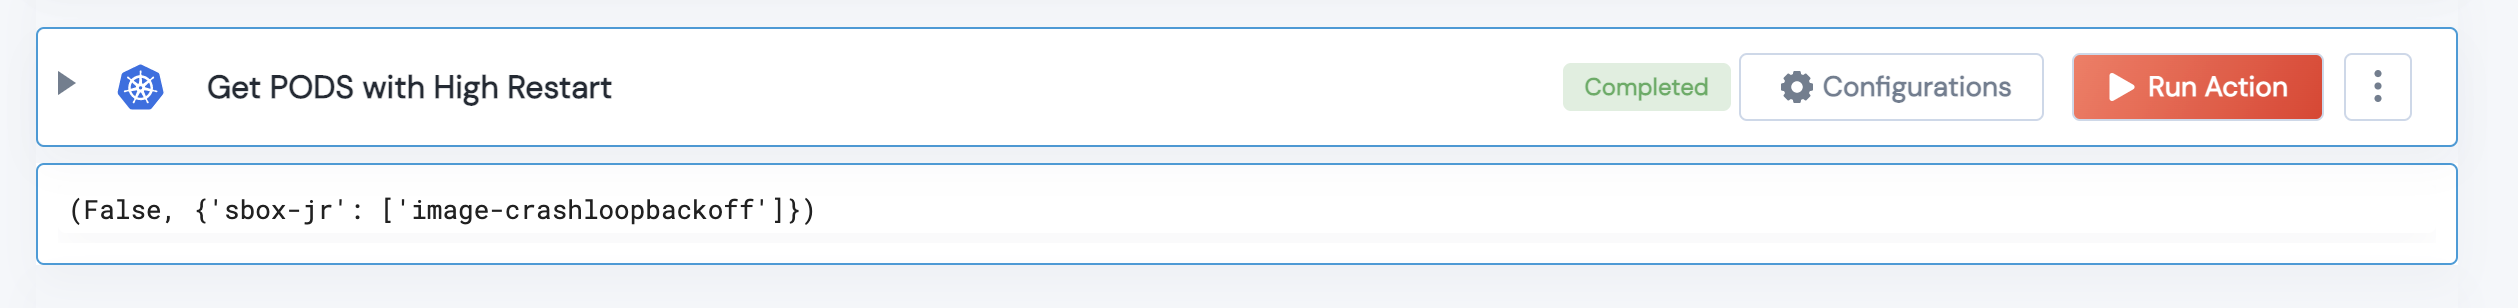
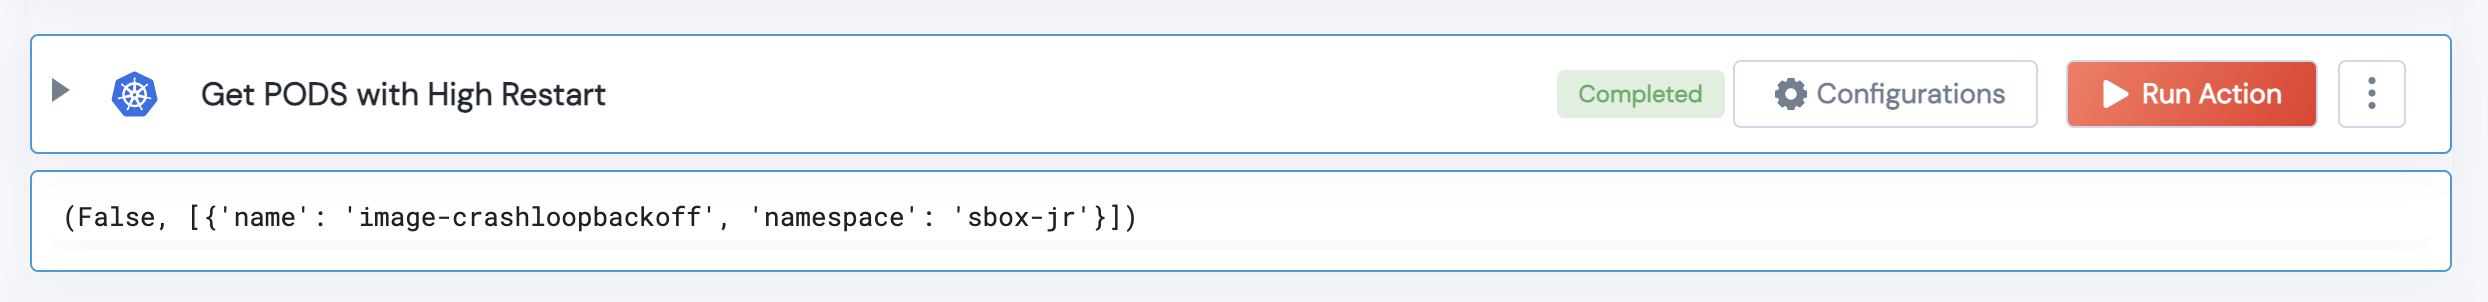
PR Comments

diff --git a/Kubernetes/legos/k8s_get_pods_with_high_restart/k8s_get_pods_with_high_restart.py b/Kubernetes/legos/k8s_get_pods_with_high_restart/k8s_get_pods_with_high_restart.py
@@ -9,41 +9,60 @@ from pydantic import BaseModel, Field
 
 
 class InputSchema(BaseModel):
-    pass
+    namespace: str = Field(
+        '',
+        description='K8S Namespace',
+        title='K8S Namespace'
+    )
+    threshold: int = Field(
+        10,
+        description='Restart Threshold Value',
+        title='Restart Threshold'
+    )
 
 def k8s_get_pods_with_high_restart_printer(output):
     if output is None:
         return 
-    
+
     print(output)
 
-def k8s_get_pods_with_high_restart(handle) -> Tuple:
+def k8s_get_pods_with_high_restart(handle, namespace: str = '', threshold: int = 10) -> Tuple:
     """k8s_get_pods_with_high_restart This function finds out PODS that have
        high restart count and returns them as a list of dictionaries
 
        :type handle: Object
        :param handle: Object returned from the task.validate(...) function
 
+       :type namespace: str
+       :param namespace: K8S Namespace 
+
+       :type threshold: int 
+       :param threshold: int Restart Threshold Count value
+
        :rtype: Tuple Result in tuple format.  
     """
     if handle.client_side_validation != True:
         raise Exception(f"K8S Connector is invalid {handle}")
 
-    kubectl_command = "kubectl get pods --all-namespaces --no-headers  | awk '$5 > 10 {print $0}'  | awk '{print $1,$2}'"
+    if not namespace :
+        kubectl_command = "kubectl get pods --all-namespaces --no-headers  | " + f"awk '$5 > {threshold} " + " {print $0}' | awk '{print $1,$2}'"
+    else:
+        kubectl_command = f"kubectl get pods -n {namespace}" + " --no-headers  | " + f"awk '$4 > {threshold} " + " {print $0}' | awk '{print $1,$2}'"
+
     result = handle.run_native_cmd(kubectl_command)
     if result.stderr:
         raise Exception(f"Error occurred while executing command {result.stderr}")
-    retval = {}
+    retval = []
     if result.stdout:
         for line in result.stdout.split('\n'):
             if not line:
                 continue
             n,p = line.split(' ')
-            if n in retval.keys():
-                retval[n].append(p)
+            if not namespace:
+                retval.append({'name': p, 'namespace': n})
             else:
-                retval[n] = [p]
+                retval.append({'name': n, 'namespace': namespace})
     if retval:
         return (False, retval)
-    
+
     return (True, [])
